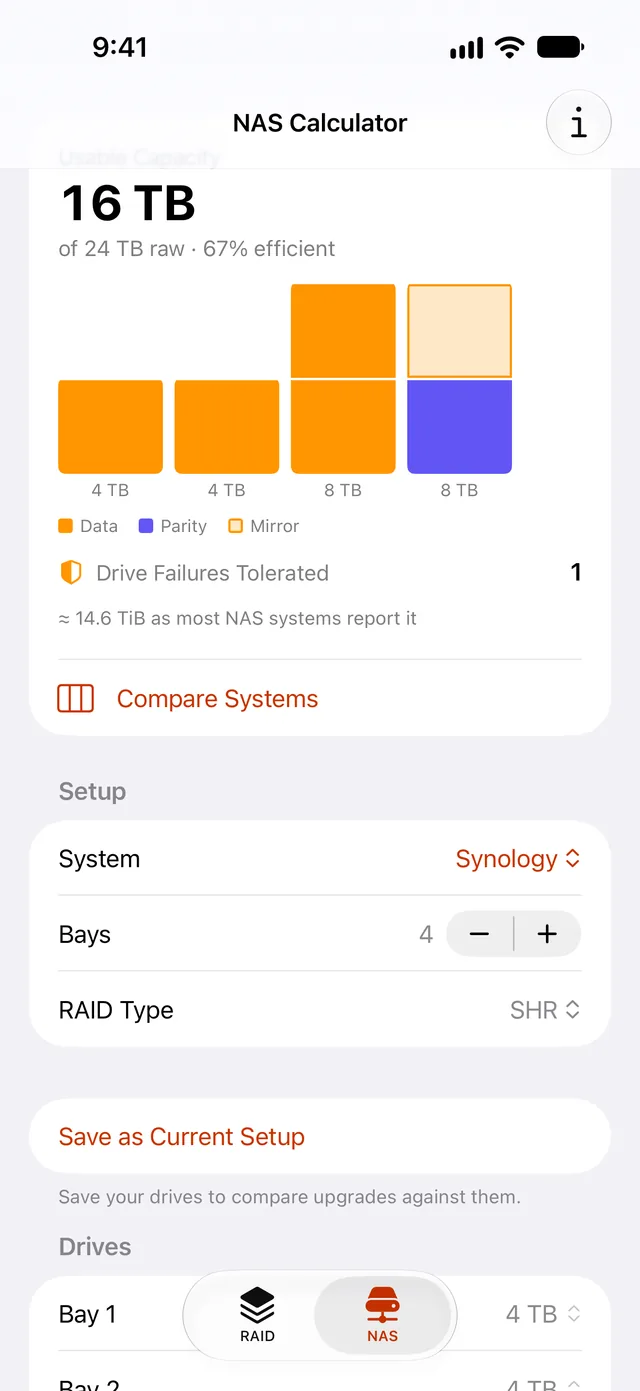
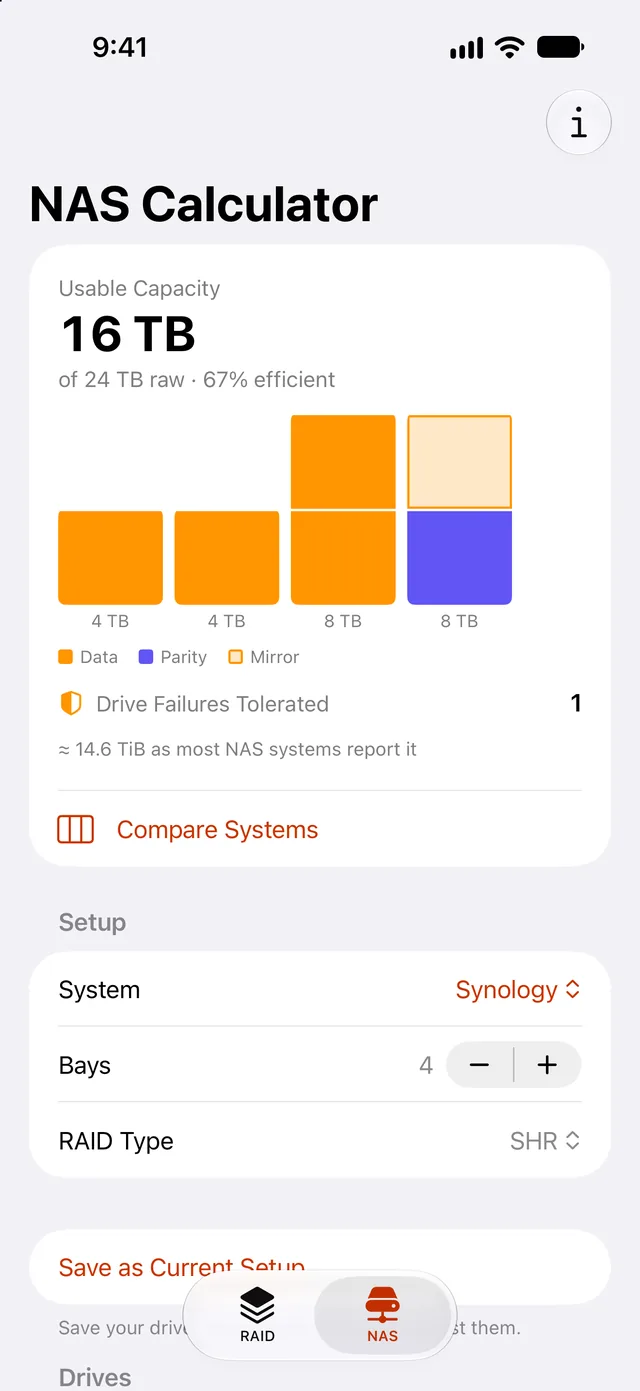
Show real UI behind the hero phone, and recapture the front one unscrolled
The hero's back phone is now the RAID tab's rebuild caution in dark mode
instead of the Compare Systems sheet, which is deleted. The front phone
is a fresh capture of the NAS tab at the top, so the large title and
the Usable Capacity label show. og-card.html points at both files, and
the OG image, alt text and JSON-LD screenshots follow.

diff --git a/www/index.html b/www/index.html
@@ -16,12 +16,12 @@
 <meta property="og:image:type" content="image/jpeg">
 <meta property="og:image:width" content="1200">
 <meta property="og:image:height" content="630">
-<meta property="og:image:alt" content="RAID Calculator: “How much space will you actually get?” beside the app showing 16 TB usable from four mixed drives in Synology SHR.">
+<meta property="og:image:alt" content="RAID Calculator: “How much space will you actually get?” beside the app showing 16 TB usable from four mixed drives in Synology SHR, and a RAID 5 rebuild caution in dark mode behind it.">
 <meta name="twitter:card" content="summary_large_image">
 <meta name="twitter:title" content="RAID Calculator for iPhone and iPad">
 <meta name="twitter:description" content="Usable capacity, fault tolerance and the one drive worth buying next. RAID 0 to 60, ZFS RAID-Z, Synology SHR, Unraid, SnapRAID and Btrfs RAID1, for iPhone and iPad.">
 <meta name="twitter:image" content="https://mrballistic.com/raid/assets/og-image.jpg">
-<meta name="twitter:image:alt" content="RAID Calculator: “How much space will you actually get?” beside the app showing 16 TB usable from four mixed drives in Synology SHR.">
+<meta name="twitter:image:alt" content="RAID Calculator: “How much space will you actually get?” beside the app showing 16 TB usable from four mixed drives in Synology SHR, and a RAID 5 rebuild caution in dark mode behind it.">
 <meta name="apple-mobile-web-app-title" content="RAID Calculator">
 <link rel="manifest" href="site.webmanifest">
 <script type="application/ld+json">
@@ -50,6 +50,7 @@
   "image": "https://mrballistic.com/raid/assets/og-image.jpg",
   "screenshot": [
     "https://mrballistic.com/raid/assets/17-iphone-nas-shr-light.webp",
+    "https://mrballistic.com/raid/assets/17-iphone-raid5-caution-dark.webp",
     "https://mrballistic.com/raid/assets/17-ipad-nas-saved-light.webp"
   ],
   "author": {
@@ -146,7 +147,7 @@
   .hero-sub { font-size: clamp(18px, 2vw, 21px); color: var(--ink-2); max-width: 30em; margin-top: 22px; }
   .hero-cta { margin-top: 34px; }
   /* Two phones stacked in one grid cell: the NAS tab in front, the
-     Compare Systems sheet for the same drives behind it. As the page scrolls away from the hero they
+     RAID tab's rebuild caution in dark mode behind it. As the page scrolls away from the hero they
      fan apart, like the drives in the photo below. The static overlap is the
      resting state, so browsers without scroll timelines, and visitors who ask
      for reduced motion, see a finished composition rather than a missing one. */
@@ -320,7 +321,7 @@
         <img src="assets/17-iphone-nas-shr-light.webp" width="640" height="1391" fetchpriority="high" alt="The NAS tab on iPhone: 4, 4, 8 and 8 TB drives in Synology SHR, 16 TB usable of 24 TB raw, 67% efficient, with part of one 8 TB drive as a mirror copy and one drive failure tolerated">
       </div>
       <div class="phone">
-        <img src="assets/17-iphone-compare-light.webp" width="640" height="1391" alt="The Compare Systems sheet on iPhone, with 4, 4, 8 and 8 TB drives: Synology 16 TB, Unraid 16 TB, SnapRAID 16 TB, ZFS 12 TB with 8 TB unused, and Btrfs RAID1 12 TB, each tolerating one drive failure">
+        <img src="assets/17-iphone-raid5-caution-dark.webp" width="640" height="1391" alt="The RAID tab on iPhone in dark mode: RAID 5 on eight 20 TB drives, 140 TB usable of 160 TB raw, with a caution that a rebuild can take days and a one-tap Use RAID 6 button">
       </div>
     </div>
   </section>

diff --git a/marketing/og-card.html b/marketing/og-card.html
@@ -30,8 +30,8 @@
     <p>Usable capacity, fault tolerance and the one drive worth buying next. For iPhone and iPad.</p>
   </div>
   <div class="phones">
-    <div class="phone back"><img src="../www/assets/02-iphone-synology-8bay.webp" alt=""></div>
-    <div class="phone front"><img src="../www/assets/03-iphone-raid-raid6.webp" alt=""></div>
+    <div class="phone back"><img src="../www/assets/17-iphone-raid5-caution-dark.webp" alt=""></div>
+    <div class="phone front"><img src="../www/assets/17-iphone-nas-shr-light.webp" alt=""></div>
   </div>
 </body>
 </html>
